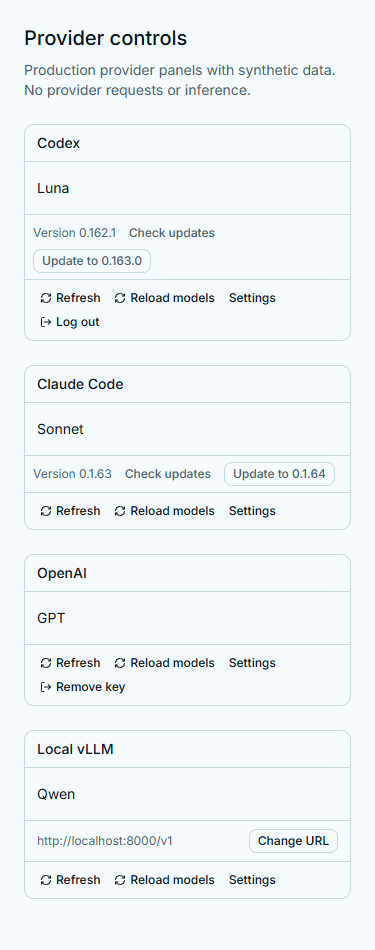
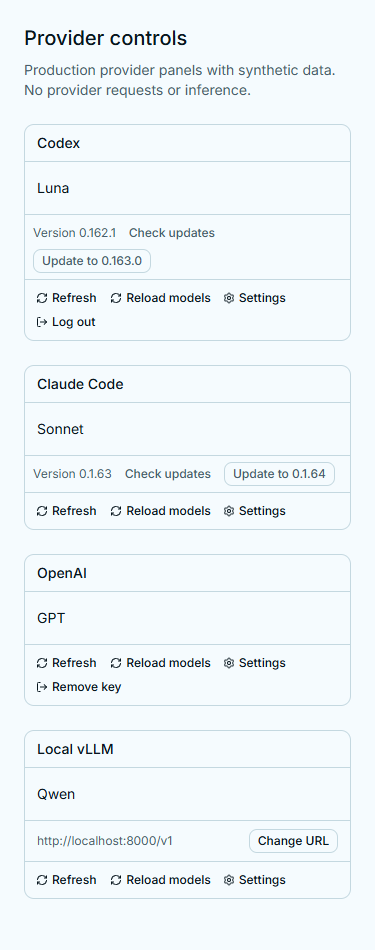
fix(web): add settings gear to provider controls

diff --git a/web/src/components/clio/model-picker-provider-panel.tsx b/web/src/components/clio/model-picker-provider-panel.tsx
@@ -5,6 +5,7 @@ import { ProviderComponentStatus } from './provider-component-status';
 import { useProviderComponentUpdate } from './provider-component-update';
 import { ProviderConnectState } from './provider-connect-state';
 import { providerCredentialKind } from '@/lib/provider-availability';
+import { SettingsIcon } from '@/lib/icon-vocabulary';
 import { useProviderActions } from './provider-actions';
 import { ProviderPanelFooter, type ProviderLogOut } from './provider-panel-footer';
 import { providerActionError } from './provider-setup-state';
@@ -89,13 +90,14 @@ export function useProviderPanel({ group, preset, open, notice, onClose }: UsePr
 
   if (!group) return { column: {} satisfies ProviderPanelColumn, stage };
   const settings = (
-    <Button asChild className="px-1.5" size="xs" type="button" variant="ghost">
+    <Button asChild className="px-1" size="xs" type="button" variant="ghost">
       {inRouter ? (
         <Link
           aria-label="Provider settings"
           to={`/settings/providers?provider=${encodeURIComponent(group.id)}`}
           onClick={onClose}
         >
+          <SettingsIcon aria-hidden="true" />
           Settings
         </Link>
       ) : (
@@ -104,6 +106,7 @@ export function useProviderPanel({ group, preset, open, notice, onClose }: UsePr
           href={`/settings/providers?provider=${encodeURIComponent(group.id)}`}
           onClick={onClose}
         >
+          <SettingsIcon aria-hidden="true" />
           Settings
         </a>
       )}

diff --git a/web/src/components/clio/provider-panel-footer.tsx b/web/src/components/clio/provider-panel-footer.tsx
@@ -38,7 +38,7 @@ export function ProviderPanelFooter({
   const busy = Boolean(actions.stage) || Boolean(logOut?.busy);
   return (
     <div
-      className="flex min-w-0 shrink-0 flex-wrap items-center border-t px-2 py-1.5"
+      className="flex min-w-0 shrink-0 flex-wrap items-center border-t px-1 py-1.5"
       data-slot="provider-panel-footer"
     >
       <RefreshButton
